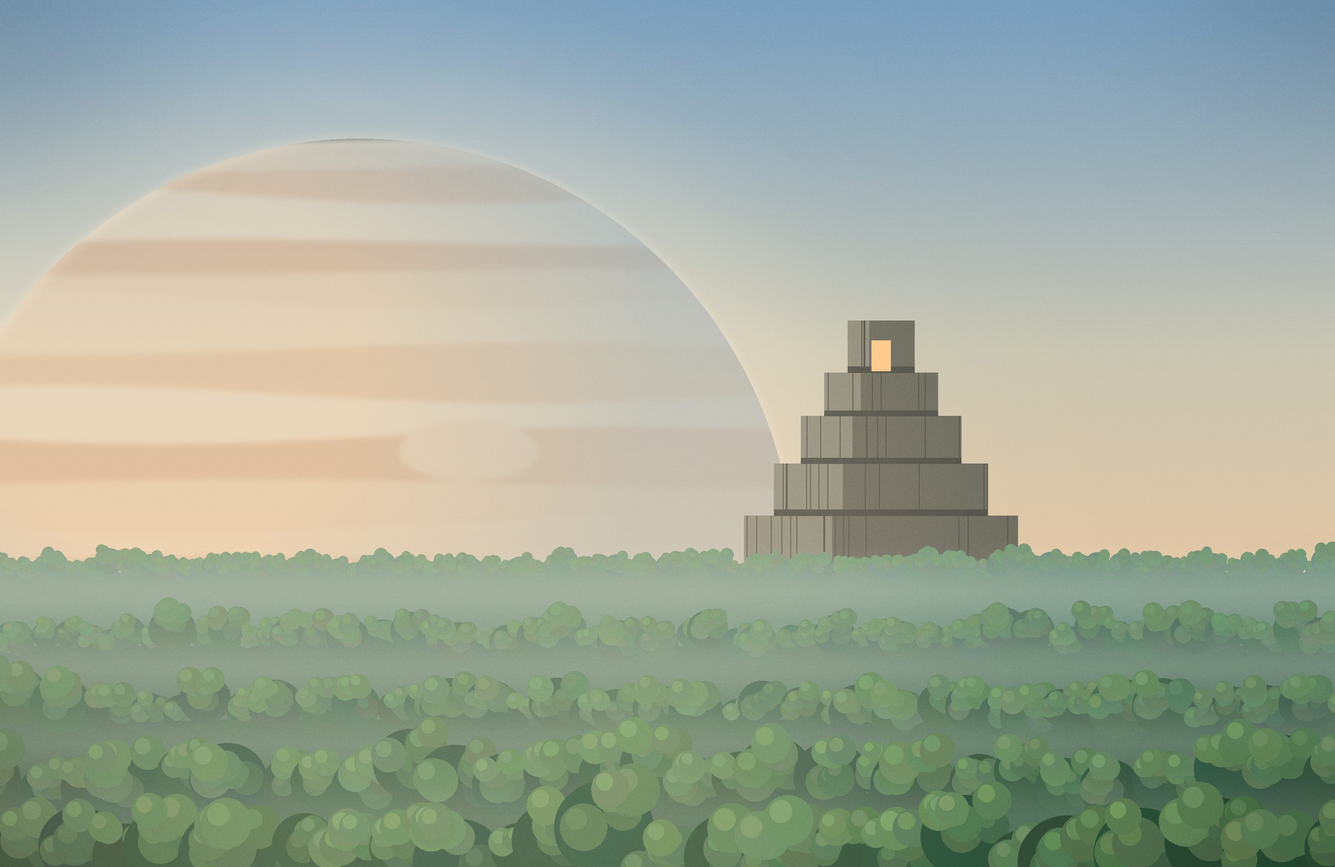
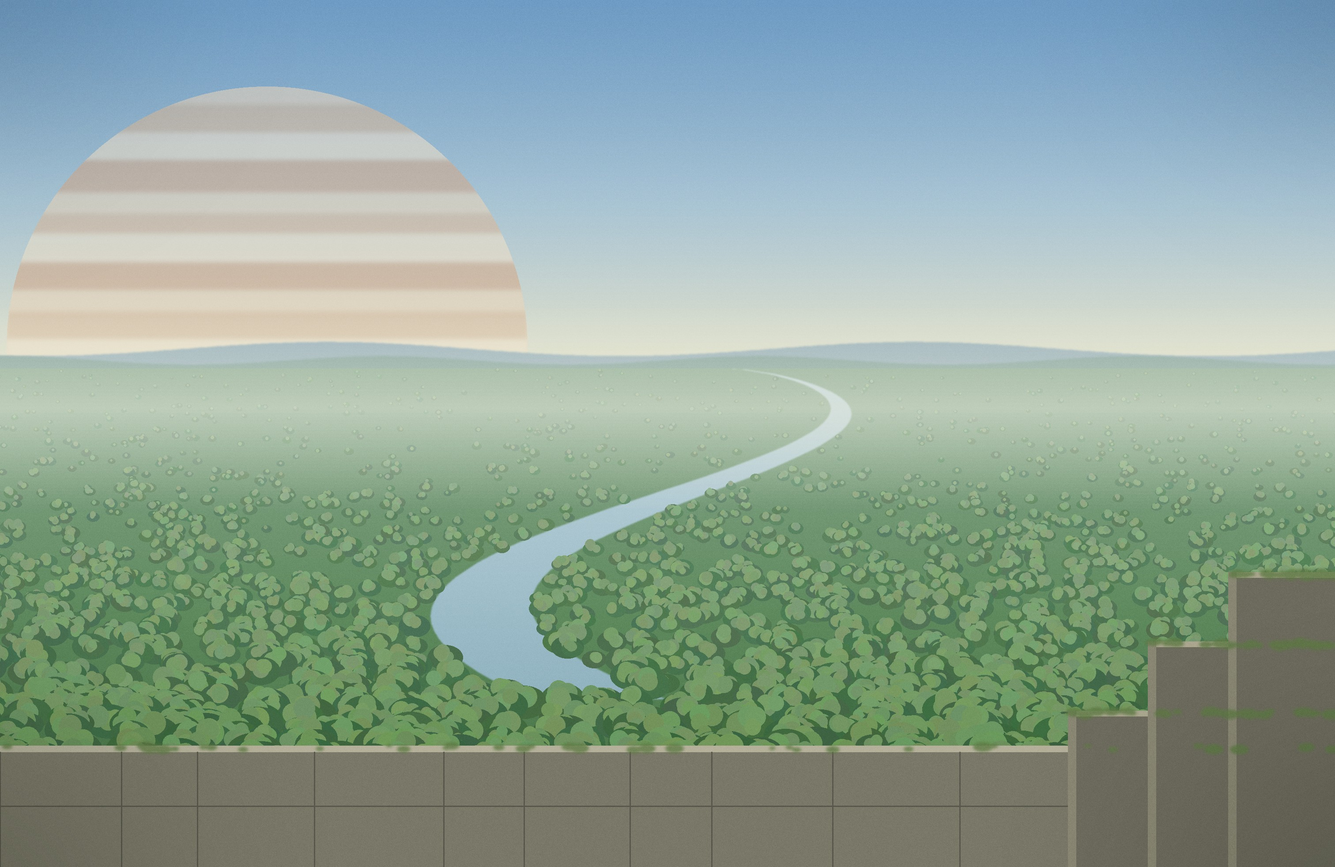
Yavin 4 day: its own view, from the temple terrace over the river
Review: the day picture was the night one recoloured. Day now
looks out from the temple's top terrace over a river winding through the
jungle valley, the gas giant pale and low.

diff --git a/scripts/yavin.py b/scripts/yavin.py
@@ -1,7 +1,10 @@
 """Render an original jungle-moon wallpaper: a banded orange gas giant rising
 over a misty canopy of rounded crowns, and a plain stepped stone temple above
-the trees with one lit opening. With --day, the same view at dawn: a pale
-gold sky, the giant faint and washed by daylight, the canopy green.
+the trees with one lit opening.
+
+With --day the viewpoint changes: up on the temple's top terrace at midday,
+looking over a river winding through the jungle valley, mist in the far
+reaches and the gas giant pale and low in the sky.
 
 Usage: python3 scripts/yavin.py [--day] OUT.jpg [WIDTH HEIGHT]
 Needs Pillow.
@@ -56,6 +59,122 @@ def jitter(c, n):
 def solid(c):
     return Image.new("RGB", (W, H), c)
 
+
+# ---- Day: from the temple's top terrace, over a jungle river valley, the
+# gas giant pale and low. Runs and exits before the night code below.
+def day():
+    rng = random.Random(14)
+    HZ = H * 0.42
+
+    def poly(pts, blur=0):
+        m = Image.new("L", (W, H), 0)
+        ImageDraw.Draw(m).polygon(pts, fill=255)
+        return m.filter(ImageFilter.GaussianBlur(blur)) if blur else m
+
+    img = Image.new("RGB", (W, H))
+    d = ImageDraw.Draw(img)
+    for y in range(H):
+        d.line([(0, y), (W, y)], fill=ramp(["#6f9cc4", "#a8c4d4", "#e4e2cc"], (y / HZ) ** 1.15))
+    # The gas giant: a pale banded disc low on the left, washed by daylight.
+    gx, gy, gr = W * 0.2, HZ - H * 0.02, H * 0.3
+    disc = Image.new("L", (W, H), 0)
+    ImageDraw.Draw(disc).ellipse([gx - gr, gy - gr, gx + gr, gy + gr], fill=255)
+    bands = Image.new("RGB", (W, H), rgb("#ecd4b8"))
+    bd = ImageDraw.Draw(bands)
+    y, k = gy - gr, 0
+    while y < gy + gr:
+        bh = gr * rng.uniform(0.06, 0.13)
+        bd.rectangle([gx - gr, y, gx + gr, y + bh], fill=rgb(["#ecd4b8", "#dcb898", "#f2e0c8", "#d4a888"][k % 4]))
+        y += bh
+        k += 1
+    bands = bands.filter(ImageFilter.GaussianBlur(5 * S))
+    img = Image.composite(bands, img, disc.point(lambda v: int(v * 0.55)))
+    # Far ridges, blue with distance.
+    for col, base, amp, f in [("#9cb2bc", HZ - 10 * S, 40, 0.07), ("#86a49e", HZ + 6 * S, 24, 0.045)]:
+        pts = [(x, base - amp * S * (0.6 + 0.4 * math.sin(x / (W * f) + base))) for x in range(0, W + 10, 10)]
+        img.paste(rgb(col), mask=poly(pts + [(W, H), (0, H)], 2 * S))
+    # The valley floor: canopy, receding into haze.
+    d = ImageDraw.Draw(img)
+    for y in range(int(HZ + 10 * S), H):
+        t = (y - HZ) / (H - HZ)
+        d.line([(0, y), (W, y)], fill=ramp(["#8eab94", "#5f8a5e", "#3e6a3e"], t))
+    # The river: winding from the horizon toward the viewer, catching the sky.
+    left, right = [], []
+    for i in range(61):
+        t = i / 60
+        y = HZ + 12 * S + (H * 0.8 - HZ) * t ** 1.6
+        x = W * 0.55 + W * 0.22 * math.sin(t * 5.2 + 0.6) * t ** 0.7
+        w = (4 + 150 * t ** 1.6) * S
+        left.append((x - w, y))
+        right.append((x + w, y))
+    river = poly(left + right[::-1], 1.5 * S)
+    sheen = Image.new("RGB", (W, H))
+    sd = ImageDraw.Draw(sheen)
+    for y in range(H):
+        sd.line([(0, y), (W, y)], fill=ramp(["#c8dae0", "#9cbcc8", "#7aa0ac"], (y - HZ) / (H - HZ)))
+    img = Image.composite(sheen, img, river)
+    # Canopy crowns: lobed clusters, small and dense far off, larger near,
+    # leaving the river clear; each lit on its upper left.
+    crowns = []
+    for _ in range(int(2600 * S) + 600):
+        t = rng.random() ** 0.9
+        y = HZ + 14 * S + (H - HZ) * t
+        r = (5 + 70 * t ** 1.6) * S * rng.uniform(0.7, 1.3)
+        x = rng.uniform(-0.03, 1.03) * W
+        if river.getpixel((int(min(W - 1, max(0, x))), int(min(H - 1, y)))) > 0:
+            continue
+        crowns.append((y, x, r, t))
+    crowns.sort()
+    d = ImageDraw.Draw(img)
+    for y, x, r, t in crowns:
+        base = lerp(rgb("#86a68c"), rgb("#2e5a30"), t ** 0.7)
+        lit = lerp(rgb("#b4c8a8"), rgb("#86b062"), t)
+        d.ellipse([x - r, y - r * 0.8, x + r, y + r * 0.6], fill=jitter(base, 5))
+        for _ in range(4 if r > 12 * S else 1):
+            lx, ly, lr = x + rng.uniform(-0.5, 0.3) * r, y - rng.uniform(0.1, 0.6) * r, r * rng.uniform(0.3, 0.5)
+            d.ellipse([lx - lr, ly - lr, lx + lr, ly + lr], fill=jitter(lerp(base, lit, 0.6), 6))
+    # Mist lying in the valley, thickest at the far end.
+    mist = Image.linear_gradient("L").resize((W, H)).point(lambda v: int(150 * max(0.0, 1 - abs(v / 255 - 0.47) / 0.12)))
+    img = Image.composite(solid(rgb("#e6eadc")), img, mist)
+    # The terrace: the temple's stone parapet along the bottom, blocks lit on
+    # top, and one stepped corner rising on the right.
+    d = ImageDraw.Draw(img)
+    py = H * 0.86
+    d.rectangle([0, py, W, H], fill=rgb("#7a7868"))
+    d.rectangle([0, py, W, py + 14 * S], fill=rgb("#b4b09a"))
+    x = 0
+    while x < W:
+        bw = rng.uniform(160, 300) * S
+        d.line([(x, py + 14 * S), (x, H)], fill=rgb("#5a584c"), width=max(1, int(3 * S)))
+        d.line([(x, py + H * 0.07), (x + bw, py + H * 0.07)], fill=rgb("#5a584c"), width=max(1, int(3 * S)))
+        x += bw
+    for i, (w, h) in enumerate([(0.2, 0.18), (0.14, 0.26), (0.08, 0.34)]):
+        x0 = W * (1 - w)
+        y0 = H * (1 - h)
+        d.rectangle([x0, y0, W, H], fill=rgb("#6e6c5e"))
+        d.rectangle([x0, y0, W, y0 + 12 * S], fill=rgb("#aca890"))
+        d.rectangle([x0, y0, x0 + 18 * S, H], fill=rgb("#8a8874"))
+    moss = Image.new("L", (W, H), 0)
+    md = ImageDraw.Draw(moss)
+    for _ in range(140):
+        # Moss sits on a top edge: the parapet, or one of the corner's steps.
+        my, x0 = rng.choice([(py, 0.0), (H * 0.82, 0.8), (H * 0.74, 0.86), (H * 0.66, 0.92)])
+        mx = rng.uniform(x0, 1.0) * W
+        my += rng.uniform(0, 10) * S
+        mr = rng.uniform(6, 22) * S
+        md.ellipse([mx - mr, my - mr * 0.5, mx + mr, my + mr * 0.5], fill=200)
+    img = Image.composite(solid(rgb("#5e7a44")), img, moss.filter(ImageFilter.GaussianBlur(3 * S)))
+    vig = Image.new("L", (W, H), 255)
+    ImageDraw.Draw(vig).ellipse([-W * 0.12, -H * 0.2, W * 1.12, H * 1.15], fill=0)
+    img = Image.composite(solid((20, 26, 18)), img, vig.filter(ImageFilter.GaussianBlur(260 * S)).point(lambda v: int(v * 0.35)))
+    noise = Image.effect_noise((W, H), 40).convert("RGB")
+    Image.blend(img, ImageChops.overlay(img, noise), 3 / 30).save(OUT, quality=90)
+    print(OUT)
+
+
+if DAY:
+    day()
+    sys.exit(0)
 
 img = Image.new("RGB", (W, H))
 d = ImageDraw.Draw(img)
